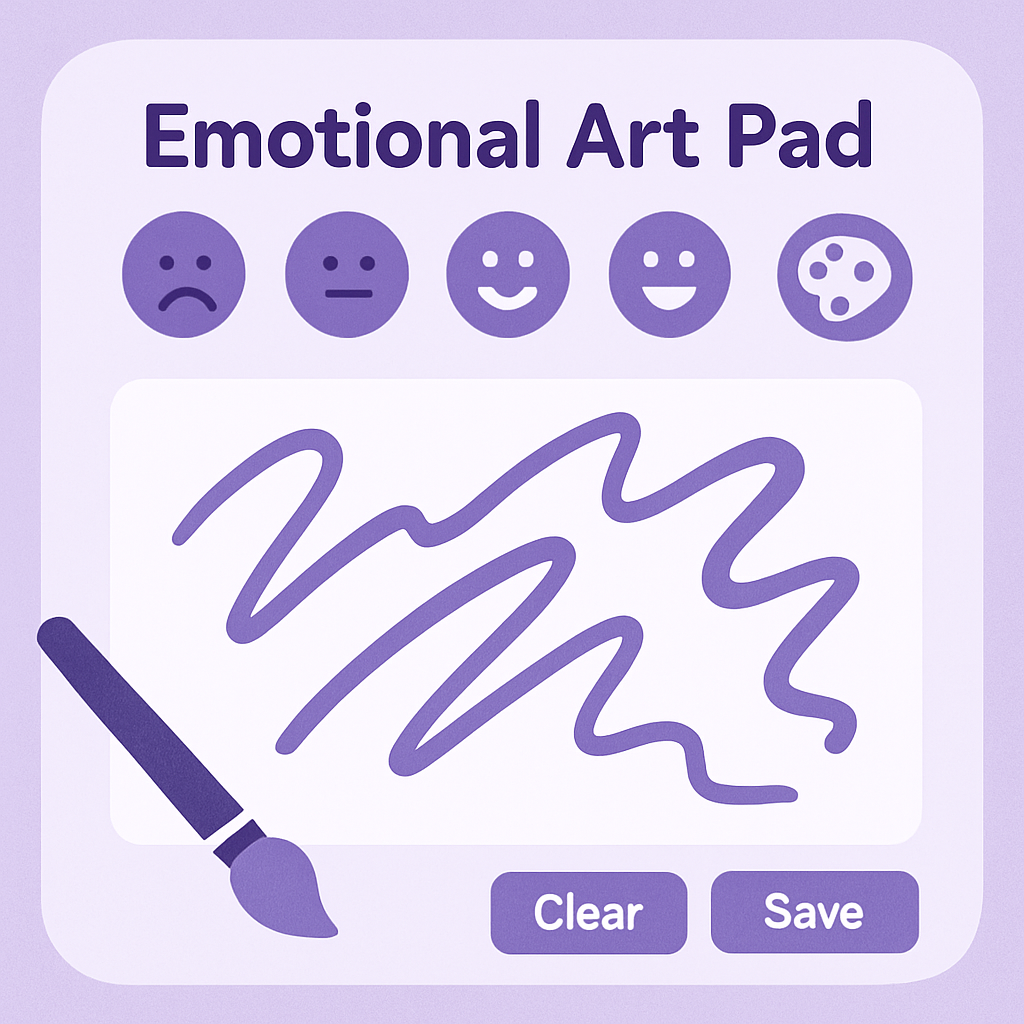
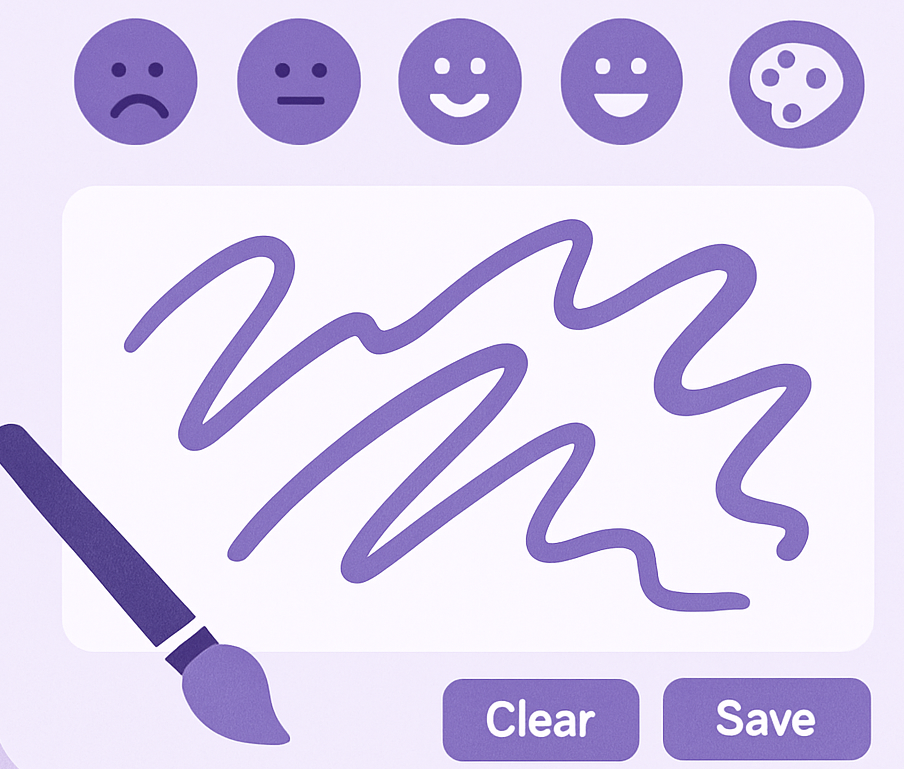
edit ed

diff --git a/app/(routes)/dashboard/_components/Appheader.tsx b/app/(routes)/dashboard/_components/Appheader.tsx
@@ -1,41 +1,83 @@
-import React from "react";
+"use client";
+import React, { useState } from "react";
 import Link from "next/link";
+import { usePathname } from "next/navigation";
 import { SignOutButton } from "@/app/_components/Signout-button";
+import { Menu, X } from "lucide-react";
 
 const menuoptions = [
   { id: 1, name: "Home", path: "/dashboard" },
-  { id: 2, name: "capture", path: "/dashboard/emotiondetector" },
-  { id: 3, name: "aidoctor", path: "/dashboard/aicare" },
+  { id: 2, name: "Capture", path: "/dashboard/emotiondetector" },
+  { id: 3, name: "AIDoctor", path: "/dashboard/aicare" },
   { id: 4, name: "Profile", path: "/profile" },
 ];
 
 const Appheader = () => {
+  const pathname = usePathname();
+  const [menuOpen, setMenuOpen] = useState(false);
+
+  const isActive = (path: string) => pathname === path;
+
   return (
-    <div className="flex justify-between items-center p-4 m-4 shadow-md bg-white rounded-full bg-gradient-to-r from-purple-100 to-white-100 ">
+    <header className=" bg-white shadow-md px-6 py-3 rounded-full m-4 bg-gradient-to-r from-purple-100 to-white flex justify-between items-center">
       {/* Logo */}
       <div className="flex items-center space-x-2">
         <img src="/logo.png" alt="Heal AI Logo" className="h-[40px] w-[40px]" />
-        <span className="text-xl font-bold text-purple-600">Heal.ai</span>
+        <span className="text-xl font-bold text-purple-700">Heal.ai</span>
       </div>
 
-      {/* Navigation */}
-      <div className="hidden md:flex gap-6">
+      {/* Desktop Nav */}
+      <nav className="hidden md:flex gap-6">
         {menuoptions.map((option) => (
           <Link
             key={option.id}
             href={option.path}
-            className="text-gray-700 hover:text-purple-600 font-medium transition"
+            className={`transition font-medium ${
+              isActive(option.path)
+                ? "text-purple-700 font-semibold border-b-2 border-purple-600"
+                : "text-gray-700 hover:text-purple-500"
+            }`}
           >
             {option.name}
           </Link>
         ))}
+      </nav>
+
+      {/* Mobile Menu Icon */}
+      <div className="md:hidden flex items-center">
+        <button onClick={() => setMenuOpen(!menuOpen)}>
+          {menuOpen ? <X className="h-6 w-6 text-purple-600" /> : <Menu className="h-6 w-6 text-purple-600" />}
+        </button>
       </div>
 
       {/* Sign Out */}
-      <div>
+      <div className="hidden md:block">
         <SignOutButton />
       </div>
-    </div>
+
+      {/* Mobile Menu */}
+      {menuOpen && (
+        <div className="absolute top-20 right-6 bg-white rounded-xl shadow-md w-52 flex flex-col items-start p-4 gap-3 z-50">
+          {menuoptions.map((option) => (
+            <Link
+              key={option.id}
+              href={option.path}
+              onClick={() => setMenuOpen(false)}
+              className={`w-full text-left ${
+                isActive(option.path)
+                  ? "text-purple-700 font-semibold"
+                  : "text-gray-700 hover:text-purple-600"
+              }`}
+            >
+              {option.name}
+            </Link>
+          ))}
+          <div className="mt-2">
+            <SignOutButton />
+          </div>
+        </div>
+      )}
+    </header>
   );
 };
 

diff --git a/app/api/geminiapi/route.ts b/app/api/geminiapi/route.ts
@@ -1,30 +1,37 @@
-import { GoogleGenerativeAI, GenerationConfig } from "@google/generative-ai";
+// app/api/gemini/route.ts
 import { NextRequest, NextResponse } from "next/server";
+import OpenAI from "openai";
+
+const openai = new OpenAI({
+  baseURL: "https://openrouter.ai/api/v1",
+  apiKey: process.env.OPENROUTER_API_KEY!,
+  defaultHeaders: {
+    "HTTP-Referer": "https://your-site-url.com", // replace with your actual site
+    "X-Title": "Heal.ai", // replace with your app name
+  },
+});
 
 export async function POST(req: NextRequest): Promise<NextResponse> {
   try {
     const { InputPrompt }: { InputPrompt: string } = await req.json();
 
-    const genAI = new GoogleGenerativeAI(process.env.NEXT_PUBLIC_GEMINI_API_KEY!);
-
-    const model = genAI.getGenerativeModel({
-      model: "gemini-1.5-flash",
+    const completion = await openai.chat.completions.create({
+      model: "google/gemini-2.5-flash-lite",
+      messages: [
+        {
+          role: "user",
+          content: InputPrompt,
+        },
+      ],
+      temperature: 1,
+      top_p: 0.95,
+      // top_k: 64,
+      max_tokens: 8192,
     });
 
-    const generationConfig: GenerationConfig = {
-      temperature: 1,
-      topP: 0.95,
-      topK: 64,
-      maxOutputTokens: 8192,
-      responseMimeType: "text/plain",
-    };
+    const responseText = completion.choices[0]?.message?.content || "No response";
 
-    const chatSession = model.startChat({ generationConfig });
-
-    const result = await chatSession.sendMessage(InputPrompt);
-    const text = await result.response.text();
-
-    return NextResponse.json({ result: text });
+    return NextResponse.json({ result: responseText });
   } catch (error) {
     console.error("Error in Gemini API route:", error);
     return NextResponse.json({ error: "Failed to generate response" }, { status: 500 });

diff --git a/app/(routes)/dashboard/page.tsx b/app/(routes)/dashboard/page.tsx
@@ -81,25 +81,32 @@ const Page = async () => {
        
       </div>
       {/* Features Grid */}
-      <div className="max-w-screen-xl mx-auto grid grid-cols-1 sm:grid-cols-2 lg:grid-cols-3 gap-6 rounded-lg">
-        {features.map((feature, idx) => (
-          <div
-            key={idx}
-            className="bg-purple-50 dark:bg-gray-900 shadow-md hover:shadow-xl transition overflow-hidden rounded-lg"
-          >
-            <img
-              src={feature.img}
-              alt={feature.title}
-              className="w-full h-100 object-cover bg-white p-2 rounded-lg"
-            />
-              <div className=" p-2 flex justify-center items-center">
-
-              <NextPage path={feature.path} titles={feature.title} />
-              </div>
-           
-          </div>
-        ))}
+      <div className="max-w-screen-lg mx-auto grid grid-cols-1 sm:grid-cols-2 lg:grid-cols-3 gap-6 p-4">
+  {features.map((feature, idx) => (
+    <div
+      key={idx}
+      className="group bg-gradient-to-br from-purple-50 to-white dark:from-gray-800 dark:to-gray-900 shadow-lg hover:shadow-2xl transition duration-300 rounded-2xl overflow-hidden border border-purple-100 dark:border-gray-700"
+    >
+      {/* Image */}
+      <div className="overflow-hidden">
+        <img
+          src={feature.img}
+          alt={feature.title}
+          className="w-full h-56 object-cover transform group-hover:scale-105 transition duration-300"
+        />
       </div>
+
+      {/* Title / Link */}
+      <div className="flex justify-center items-center p-4">
+        <NextPage
+          path={feature.path}
+          titles={feature.title}
+        />
+      </div>
+    </div>
+  ))}
+</div>
+
 
     </div>
      </div>

diff --git a/app/(routes)/dashboard/emotiondetector/page.tsx b/app/(routes)/dashboard/emotiondetector/page.tsx
@@ -51,19 +51,19 @@ Based on their emotional state and message, craft a thoughtful and uplifting res
 Make sure the tone is friendly, empathetic, and human-like. Keep the response under 100 words and avoid sounding robotic.
 `;
 
-    const res = await fetch("/api/geminiapi", {
-      method: "POST",
-      headers: { "Content-Type": "application/json" },
-      body: JSON.stringify({ InputPrompt }),
-    });
+     const res = await fetch("/api/geminiapi", {
+    method: "POST",
+    headers: { "Content-Type": "application/json" },
+    body: JSON.stringify({ InputPrompt }),
+  });
+
+  
 
     const data = await res.json();
     setResponse(data.result);
     setLoading(false);
     setSubmitted(true);
 
-
- 
 
     
   };
@@ -77,6 +77,7 @@ Make sure the tone is friendly, empathetic, and human-like. Keep the response un
     setCameraOn(false);
     setSubmitted(false);
     setDisabled(false);
+  
   };
 const savemood=async()=>{
   await fetch("/api/moodsave", {
@@ -87,7 +88,10 @@ const savemood=async()=>{
               thought,
               response: response,
             }),
-          });
+          }
+        );
+        
+
 }
   return (
     <div>

diff --git a/app/(routes)/dashboard/_components/MoodDetector.tsx b/app/(routes)/dashboard/_components/MoodDetector.tsx
@@ -64,6 +64,7 @@ const EmotionDetector=({emotion,setEmotion,isCaptured,setIsCaptured,cameraOn,set
     cameraOn ? stopVideo() : startVideo()
   }
 
+
   const handleCapture = async (): Promise<void> => {
     setDisabled(!disabled)
     const video = videoRef.current
@@ -150,12 +151,6 @@ const EmotionDetector=({emotion,setEmotion,isCaptured,setIsCaptured,cameraOn,set
     </div>
   )
 }
-function setCameraOn(arg0: boolean) {
-  throw new Error("Function not implemented.");
-}
 
-function setIsCaptured(arg0: boolean) {
-  throw new Error("Function not implemented.");
-}
 
 export default EmotionDetector 
